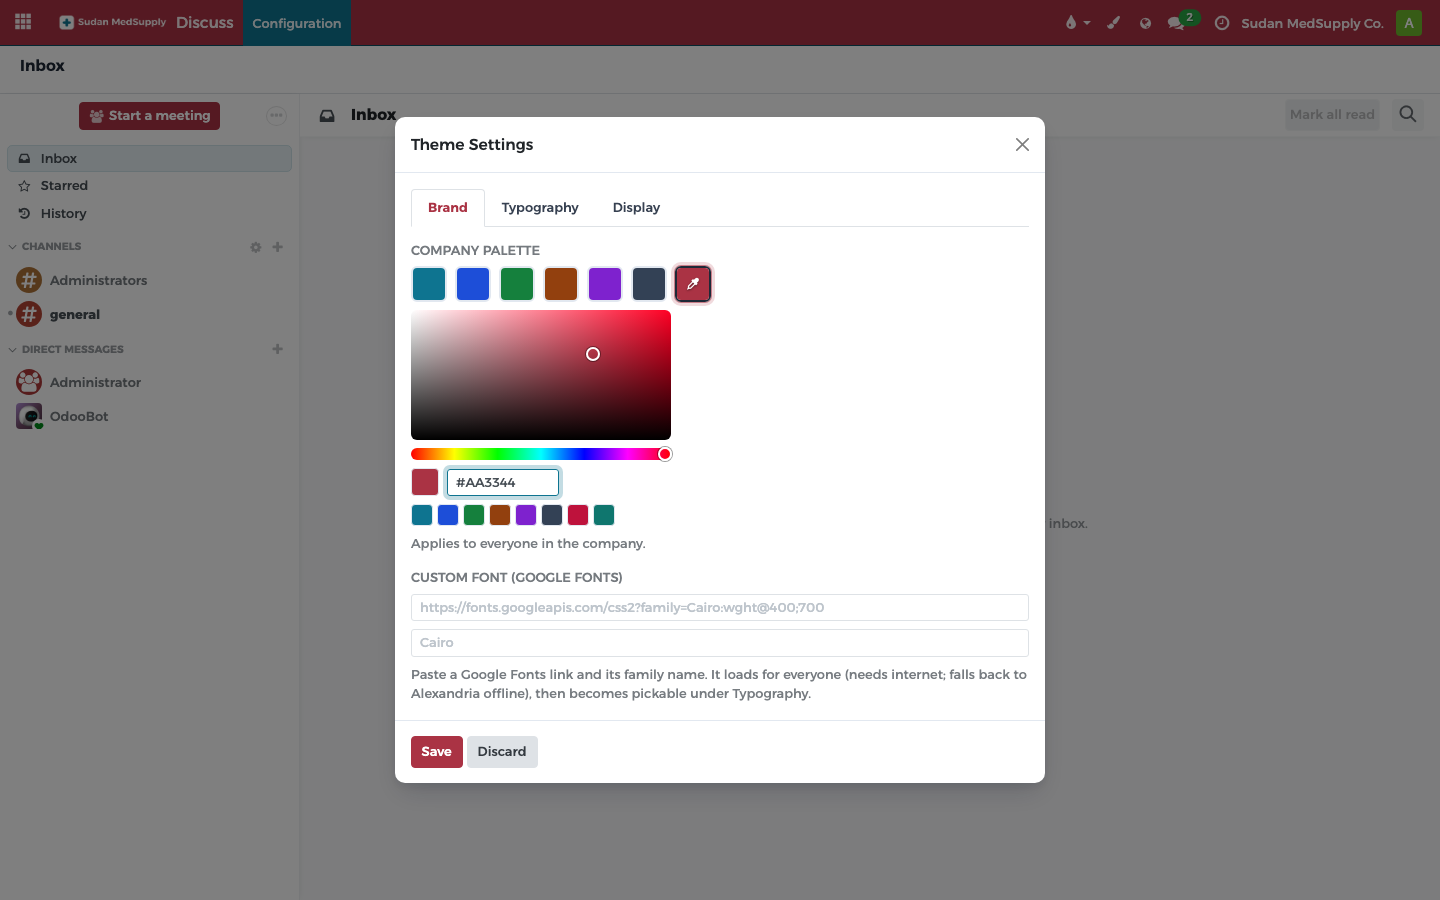
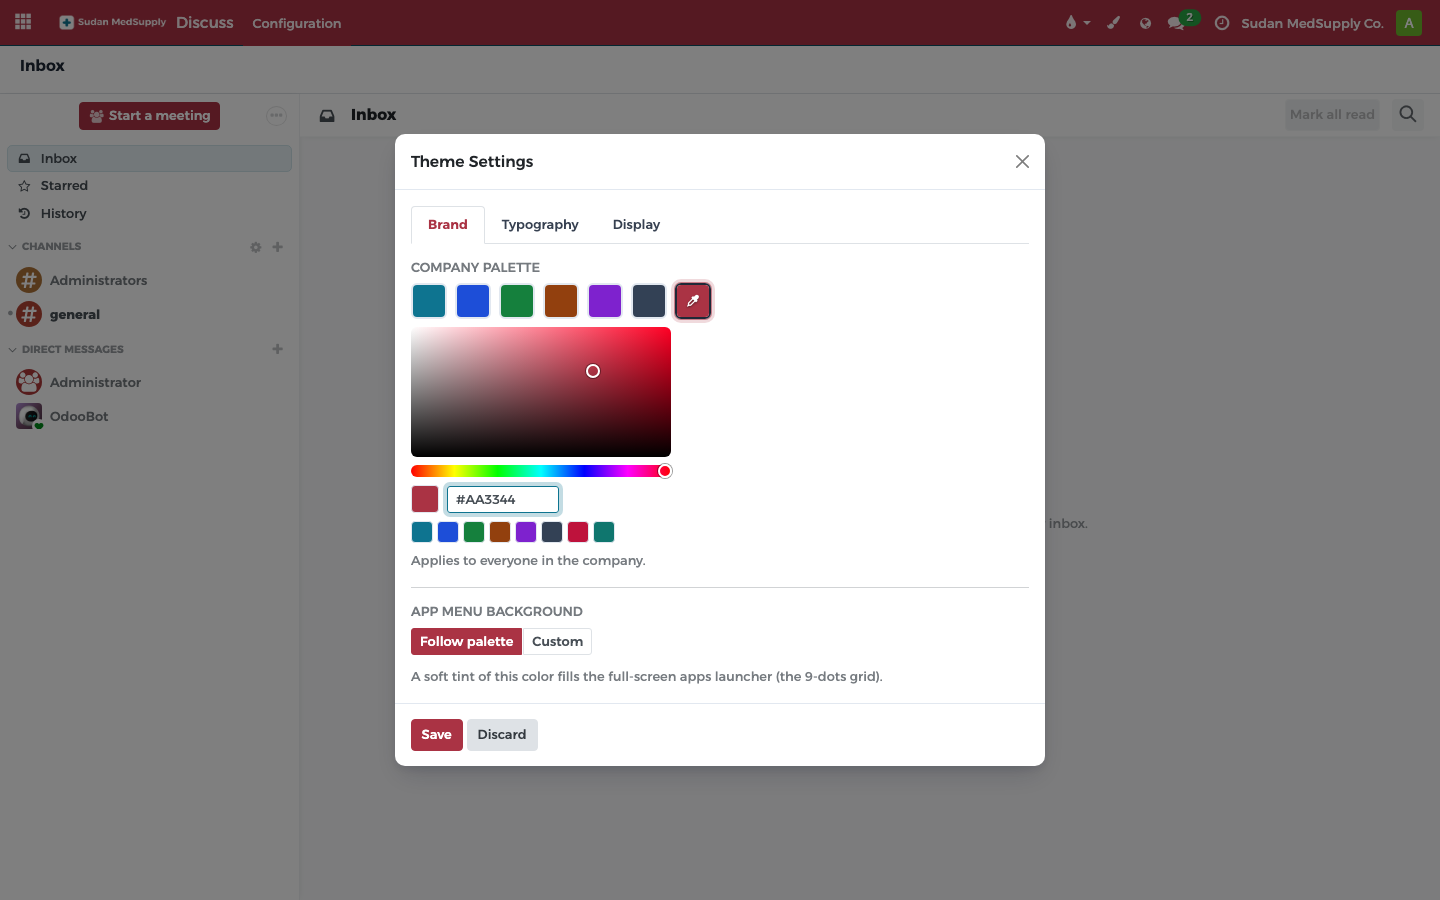
docs+qa(theme): re-pin deploy to v18.0.1.2.0 (app-menu bg feature + AR fix)
odoo-nile-theme bumped to v18.0.1.2.0 (1ccea43): the web_responsive 9-dots
app launcher now follows the Nile palette and is admin-customizable from the
Theme dialog; Arabic Google-Fonts help-text now renders.

- DEPLOY_PINS.md + PRODUCTION_HARDENING_RUNBOOK.md §5: re-pin v18.0.1.1.1 ->
  v18.0.1.2.0 (deploy must run `-u nile_config`, new res.company column — not
  asset-only). New release section in DEPLOY_PINS.
- CUSTOM_THEME_PLAN.md + erp-medsupply-demo SKILL.md: status synced.
- scripts/qa_test_appmenu_bg.py: Playwright verifier (9 checks incl. dark-mode
  regression), non-destructive. Evidence in docs/theme-audit/qa/appmenu/.

Changed region(s): [[0.25, 0.2178, 0.75, 0.8711], [0.25, 0.1244, 0.75, 0.1867], [0.1562, 0.0, 0.25, 0.0622]]

diff --git a/scripts/qa_test_appmenu_bg.py b/scripts/qa_test_appmenu_bg.py
@@ -1,0 +1,235 @@
+# -*- coding: utf-8 -*-
+"""Verify the customizable app-launcher (9-dots) background (nile_config).
+
+Proves:
+  A. The drawer no longer uses web_responsive's hardcoded lavender / SVG overlay.
+  B. With "follow palette" it tracks the company palette (teal vs plum differ).
+  C. A custom color set via the Theme dialog persists and recolors the drawer.
+  D. App labels stay readable (dark text on the light tint).
+  E. The Google-Fonts help text now renders in Arabic (translation fix).
+
+Non-destructive: restores the company's original appmenu bg / palette and the
+admin's language at the end.
+Usage: python3 scripts/qa_test_appmenu_bg.py [db]
+"""
+import os
+import re
+import sys
+import xmlrpc.client
+from playwright.sync_api import sync_playwright
+
+BASE = "http://localhost:8069"
+DB = sys.argv[1] if len(sys.argv) > 1 else "erpmedsupply"
+USER = PWD = "admin"
+ROOT = os.path.dirname(os.path.dirname(os.path.abspath(__file__)))
+OUT = os.path.join(ROOT, "docs", "theme-audit", "qa", "appmenu")
+os.makedirs(OUT, exist_ok=True)
+
+failures = []
+
+
+def check(name, cond, detail=""):
+    print(("  PASS " if cond else "  FAIL ") + name + (f" ({detail})" if detail else ""))
+    if not cond:
+        failures.append(f"{name}: {detail}")
+
+
+# --- xmlrpc handles + original state (restored at the end) -------------------
+common = xmlrpc.client.ServerProxy(f"{BASE}/xmlrpc/2/common")
+uid = common.authenticate(DB, USER, PWD, {})
+models = xmlrpc.client.ServerProxy(f"{BASE}/xmlrpc/2/object")
+
+
+def kw(model, method, *args):
+    return models.execute_kw(DB, uid, PWD, model, method, *args)
+
+
+cid = kw("res.users", "read", [[uid], ["company_id"]])[0]["company_id"][0]
+orig = kw("res.company", "read",
+          [[cid], ["nile_palette_preset", "nile_color_primary", "nile_appmenu_bg"]])[0]
+orig_lang = kw("res.users", "read", [[uid], ["lang"]])[0]["lang"]
+orig_dark = kw("res.users", "read", [[uid], ["nile_dark_mode"]])[0]["nile_dark_mode"]
+kw("res.users", "write", [[uid], {"lang": "en_US"}])
+
+
+def set_company(vals):
+    kw("res.company", "write", [[cid], vals])
+
+
+def login(page, lang_db=DB):
+    page.goto(f"{BASE}/web/login?db={lang_db}", timeout=30000)
+    if page.locator("input[name=login]").count():
+        page.fill("input[name=login]", USER)
+        page.fill("input[name=password]", PWD)
+        page.click("button[type=submit]")
+    page.wait_for_selector(".o_main_navbar", timeout=20000)
+    page.wait_for_timeout(1200)
+
+
+def open_launcher(page):
+    page.locator(".o_grid_apps_menu__button").first.click()
+    page.wait_for_selector(".app-menu-container", timeout=8000)
+    page.wait_for_timeout(500)
+
+
+def drawer_bg(page):
+    """Resolved background-image (the gradient) of the open drawer."""
+    return page.eval_on_selector(
+        ".app-menu-container",
+        "el => getComputedStyle(el).backgroundImage",
+    )
+
+
+def rgbs(s):
+    return re.findall(r"rgba?\(([^)]+)\)", s or "")
+
+
+def parse_color(tok):
+    """rgb(...)/rgba(...) or Chromium's color(srgb r g b) -> [r,g,b] 0-255."""
+    m = re.match(r"rgba?\(([^)]+)\)", tok or "")
+    if m:
+        return [float(x) for x in [p.strip() for p in m.group(1).split(",")][:3]]
+    m = re.match(r"color\(srgb\s+([^)]+)\)", tok or "")
+    if m:
+        return [float(x) * 255 for x in m.group(1).split()[:3]]
+    return None
+
+
+def luminance(rgb):
+    def lin(c):
+        c /= 255
+        return c / 12.92 if c <= 0.03928 else ((c + 0.055) / 1.055) ** 2.4
+    r, g, b = (lin(x) for x in rgb)
+    return 0.2126 * r + 0.7152 * g + 0.0722 * b
+
+
+def first_color(grad):
+    m = re.search(r"(rgba?\([^)]*\)|color\(srgb[^)]*\))", grad or "")
+    return parse_color(m.group(1)) if m else None
+
+
+print(f"\n== app-menu background verification on {DB} ==")
+
+with sync_playwright() as p:
+    browser = p.chromium.launch()
+    page = browser.new_page(viewport={"width": 1440, "height": 900})
+
+    # ---- A + B(1): follow palette = teal (default brand) --------------------
+    set_company({"nile_palette_preset": "teal", "nile_appmenu_bg": False})
+    login(page)
+    open_launcher(page)
+    bg_teal = drawer_bg(page)
+    page.screenshot(path=os.path.join(OUT, "appmenu_follow_teal.png"))
+    check("A: gradient replaces web_responsive default",
+          "gradient" in bg_teal and "233, 230, 249" not in bg_teal
+          and ".svg" not in bg_teal and "home-menu" not in bg_teal,
+          bg_teal[:80])
+
+    # label readability — theme-agnostic: each apps_menu theme keeps its own
+    # label-color contract (milk=dark on a light tint, community=white on a bold
+    # wash), so assert a healthy luminance gap between label and drawer instead
+    # of a fixed color.
+    lbl = page.eval_on_selector(
+        ".o-app-menu-item__name",
+        "el => getComputedStyle(el).color") if page.locator(".o-app-menu-item__name").count() else "none"
+    bg_top = first_color(bg_teal)
+    lab = parse_color(lbl)
+    readable = bool(bg_top) and bool(lab) and abs(luminance(bg_top) - luminance(lab)) > 0.35
+    check("D: app labels readable on the drawer (luminance gap)", readable,
+          f"label={lbl} bg_top={bg_top}")
+
+    # ---- B(2): follow palette = plum → drawer hue must change ---------------
+    set_company({"nile_palette_preset": "plum", "nile_appmenu_bg": False})
+    login(page)
+    open_launcher(page)
+    bg_plum = drawer_bg(page)
+    page.screenshot(path=os.path.join(OUT, "appmenu_follow_plum.png"))
+    check("B: drawer follows the palette (teal != plum)",
+          bg_plum != bg_teal and "gradient" in bg_plum, bg_plum[:80])
+
+    # ---- C: custom color via the Theme dialog (UI + persistence) ------------
+    set_company({"nile_palette_preset": "teal", "nile_appmenu_bg": False})
+    login(page)
+    page.locator(".o_nile_theme_systray").click()
+    page.wait_for_selector(".o_nile_theme_dialog", timeout=8000)
+    page.get_by_role("tab", name="Brand").click()
+    page.wait_for_timeout(300)
+    has_section = page.get_by_text("App Menu Background").count() > 0
+    check("C1: 'App Menu Background' control on Brand tab", has_section)
+    # switch to Custom → the inline HSV picker appears
+    page.get_by_role("button", name="Custom").last.click()
+    page.wait_for_timeout(300)
+    pickers = page.locator(".o_nile_theme_dialog .o_nile_color_picker")
+    check("C2: Custom reveals the color picker", pickers.count() >= 1)
+    # type a vivid crimson into the app-menu picker's hex field, then Save
+    pickers.last.locator(".o_nile_hex_input").fill("#BE123C")
+    pickers.last.locator(".o_nile_hex_input").dispatch_event("input")
+    page.wait_for_timeout(300)
+    page.get_by_role("button", name="Save").click()
+    page.wait_for_selector(".o_main_navbar", timeout=20000)
+    page.wait_for_timeout(1200)
+    persisted = kw("res.company", "read", [[cid], ["nile_appmenu_bg"]])[0]["nile_appmenu_bg"]
+    check("C3: custom color persisted", persisted == "#BE123C", str(persisted))
+    open_launcher(page)
+    bg_custom = drawer_bg(page)
+    page.screenshot(path=os.path.join(OUT, "appmenu_custom_crimson.png"))
+    # crimson tint: the top stop should be red-dominant (r > g and r > b)
+    triples = [t.split(",") for t in rgbs(bg_custom)]
+    red_dom = any(int(t[0]) > int(t[1]) and int(t[0]) > int(t[2]) for t in triples if len(t) >= 3)
+    check("C4: drawer shows the custom crimson tint", red_dom and bg_custom != bg_teal, bg_custom[:80])
+
+    # ---- E: Arabic help text (translation fix) ------------------------------
+    kw("res.users", "write", [[uid], {"lang": "ar_001"}])
+    login(page)
+    page.locator(".o_nile_theme_systray").click()
+    page.wait_for_selector(".o_nile_theme_dialog", timeout=8000)
+    # Typography tab — Arabic label is "الخطوط"
+    page.get_by_role("tab", name="الخطوط").click()
+    page.wait_for_timeout(300)
+    help_txt = page.locator(".o_nile_theme_dialog .form-text").last.inner_text()
+    is_arabic = bool(re.search(r"[-ۿ]", help_txt)) and "Paste a Google" not in help_txt
+    check("E: Google-Fonts help text renders Arabic", is_arabic, help_txt[:60])
+
+    # ---- F: dark mode wins over a custom app-menu color ---------------------
+    # dark.scss sets --app-menu-background DIRECTLY on .app-menu-container; that
+    # direct value must beat our inherited ancestor rule so the drawer stays a
+    # neutral dark surface (NOT the crimson custom color) in dark mode.
+    kw("res.users", "write", [[uid], {"lang": "en_US", "nile_dark_mode": True}])
+    set_company({"nile_appmenu_bg": "#BE123C"})  # vivid custom color still set
+    dark_ctx = browser.new_context(viewport={"width": 1440, "height": 900})
+    dark_ctx.add_cookies([{"name": "color_scheme", "value": "dark", "url": BASE}])
+    dpage = dark_ctx.new_page()
+    login(dpage)
+    open_launcher(dpage)
+    bg_dark = drawer_bg(dpage)
+    # dark.scss uses a SOLID surface color, so it lands in background-color
+    # (background-image is "none") — fall back to it.
+    bg_dark_col = dpage.eval_on_selector(
+        ".app-menu-container", "el => getComputedStyle(el).backgroundColor")
+    dpage.screenshot(path=os.path.join(OUT, "appmenu_dark_neutral.png"))
+    top = first_color(bg_dark) or parse_color(bg_dark_col)
+    red_dom = bool(top) and top[0] > top[1] and top[0] > top[2]
+    is_neutral = bool(top) and luminance(top) < 0.12 and not red_dom
+    check("F: dark mode stays neutral (custom color suppressed)", is_neutral,
+          f"bg_top={top}")
+    dark_ctx.close()
+
+    browser.close()
+
+# --- restore -----------------------------------------------------------------
+set_company({
+    "nile_palette_preset": orig["nile_palette_preset"],
+    "nile_color_primary": orig["nile_color_primary"] or False,
+    "nile_appmenu_bg": orig["nile_appmenu_bg"] or False,
+})
+kw("res.users", "write", [[uid], {"lang": orig_lang, "nile_dark_mode": orig_dark}])
+print(f"\nrestored: palette={orig['nile_palette_preset']} appmenu_bg={orig['nile_appmenu_bg']} "
+      f"lang={orig_lang} dark={orig_dark}")
+
+print(f"\nscreenshots -> {OUT}")
+if failures:
+    print(f"\n{len(failures)} FAILURE(S):")
+    for f in failures:
+        print("  - " + f)
+    sys.exit(1)
+print("\nALL CHECKS PASSED")

diff --git a/docs/CUSTOM_THEME_PLAN.md b/docs/CUSTOM_THEME_PLAN.md
@@ -1,6 +1,6 @@
 # Custom Backend Theme Master Plan — Replacing Spiffy (OPL-1) with an In-House LGPL-3 Theme
 
-**Status:** Phases 0–4 (high-value subset) DONE — `18.0` tagged **`v18.0.1.1.1`** (`ffb4b55`, the 2026-06-14 bug-fix pass: RTL flip / submenu palette-follow / Discuss dark / dark-text+kanban numbers / font-tab move — committed, pushed, deploy re-pinned; prior `v18.0.1.1.0` was the comprehensive theme panel + real dark skin); **Phase-4 "everything" tier DONE 2026-06-14** (EN/AR tour matrix in CI, 19.0-readiness notes, per-addon READMEs); only deferred: Phase-1 doc re-capture | **Date:** 2026-06-11 | **Targets:** Odoo 18.0 Community | **Products:** Sudan Medical-Supply ERP demo (`erpmedsupply`, Arabic-first EN/AR), CMP, ePHEM
+**Status:** Phases 0–4 (high-value subset) DONE — `18.0` tagged **`v18.0.1.2.0`** (`1ccea43`, 2026-06-14 feature: customizable app-launcher (9-dots) background — palette-following + admin override via the Theme dialog — plus the AR Google-Fonts help-text fix; prior `v18.0.1.1.1` `ffb4b55` = bug-fix pass: RTL flip / submenu palette-follow / Discuss dark / dark-text+kanban numbers / font-tab move; `v18.0.1.1.0` = comprehensive theme panel + real dark skin); **Phase-4 "everything" tier DONE 2026-06-14** (EN/AR tour matrix in CI, 19.0-readiness notes, per-addon READMEs); only deferred: Phase-1 doc re-capture | **Date:** 2026-06-11 | **Targets:** Odoo 18.0 Community | **Products:** Sudan Medical-Supply ERP demo (`erpmedsupply`, Arabic-first EN/AR), CMP, ePHEM
 
 > **CURRENT STATE (2026-06-13):** Phases 0–4 (high-value subset) DONE — `phase3-dark-skin` **merged into `18.0`** (`1c69960`) + tagged **`v18.0.1.1.0`**; a 2026-06-13 UI refinement pass (palette-follow to statusbar/settings-rail/view-switcher/notebook, grouped-kanban count-chip fix, elevation/focus polish) + a comprehensive **tabbed Theme Settings panel** (inline HSV picker, company Google-Fonts link, systray globe language switcher) + a Hoot JS test scaffold/CI lane all shipped. Nile is live and Spiffy is retired/deleted everywhere. Three repos:
 > `Wael9912/ephem_deployment_docker` (deploy), `Wael9912/erpmedsupply-addons` (the 14 ERP addons, decoupled
@@ -200,7 +200,7 @@ Two axes, deliberately small:
 | **3 — Dark mode + a11y polish** ✅ DONE 2026-06-13 (branch `phase3-dark-skin`) | Real dark skin (`nile_components/dark.scss` recolours core chrome from `--nile-*` dark tokens — Community ships none; bridges Odoo's un-prefixed BS vars), **neutral-dark navbar**, dark toggle in the Theme dialog + prefs form (`color_scheme` cookie, pre-set in `save()` for a one-hop reload), full compile-time WCAG contrast gate (`contrast.scss` `@error` + `tests/test_contrast.py` CI lane), focus-visible pass (`70_a11y.scss`), reduced-motion (already shipped), compact-density QA | **7 pd** | DONE: dark × RTL × both densities verified via `scripts/qa_dark_sweep.py` (luminance gap-finder, 0 findings) on `erpmedsupply` EN+AR; light theme no-regression; WCAG AA gate green for teal + indigo brands (ePHEM green 5.1:1 computed); install matrix + clean uninstall pass. **Note: Community has NO core dark stylesheets, so this shipped a *real* dark skin, not just a cookie.** |
 | **4 — Hardening & distribution** 🟡 **HIGH-VALUE SUBSET DONE 2026-06-13.** DONE: Hoot JS unit-test scaffold (`nile_config/static/tests/color_picker.test.js` + `web.assets_unit_tests`, 12/12 in the in-browser runner) + CI `js-tests` lane (`.github/scripts/run_hoot.py`); version bump → `18.0.1.1.0`; release tag `v18.0.1.1.0`; tag-based deploy pinning (`erpmedsupply-addons` `v18.0.1.0.0` + `docs/DEPLOY_PINS.md` + runbook §5). **"EVERYTHING" TIER DONE 2026-06-14** (odoo-nile-theme `28c97b2`): EN/AR critical-flow tour matrix per brand in CI (`.github/scripts/run_tours.py` + ci.yml `tours` job, verified live on `erpmedsupply` EN+AR), `UPGRADE_19.md` 19.0-readiness checklist keyed to TOUCHPOINTS, and the last missing per-addon README (`nile_config`). | **6 pd** | DONE: prod clones consume pinned tags; install + contrast CI green; JS + tour CI lanes added (pending first GitHub-Actions run) |
 
-**Total: ~36 person-days.** Phases 0–4 are DONE (`18.0` @ `v18.0.1.1.1` + tour/19.0 docs @ `28c97b2`) — the ONLY remaining plan item is the deferred Phase-1 doc re-capture (manual + both decks), ON HOLD until the user asks.
+**Total: ~36 person-days.** Phases 0–4 are DONE (`18.0` @ `v18.0.1.2.0`) — the ONLY remaining plan item is the deferred Phase-1 doc re-capture (manual + both decks), ON HOLD until the user asks.
 
 ---
 

diff --git a/.claude/skills/erp-medsupply-demo/SKILL.md b/.claude/skills/erp-medsupply-demo/SKILL.md
@@ -258,7 +258,10 @@ in the container (`pdftoppm`) since the host has no poppler/WeasyPrint.
 
 ## UI/theme: Nile is live; Spiffy is retired (current as of 2026-06-13)
 
-**Phases 0–4 ALL DONE; `18.0` tagged `v18.0.1.1.1` (2026-06-14).** It carries: the Phase-3 real
+**Phases 0–4 ALL DONE; `18.0` tagged `v18.0.1.2.0` (2026-06-14).** Latest (`v18.0.1.2.0`): the
+app-launcher (9-dots) background follows the Nile palette and is admin-customizable from the Theme
+dialog (Brand tab → "App Menu Background"); plus the Arabic Google-Fonts help-text now renders. It also
+carries: the Phase-3 real
 dark skin + neutral-dark navbar + dark toggle + WCAG contrast gate + a11y; a **UI refinement pass**
 (palette-follow extended so the company color reaches the statusbar / settings rail / view-switcher /
 notebook; grouped-kanban count-chip corner fix; stronger elevation + focus ring); the
@@ -275,7 +278,7 @@ remaining plan item: the deferred Phase-1 doc re-capture (this section), ON HOLD
 - `Wael9912/erpmedsupply-addons` (`main`) — the **14 ERP addons** (OCA/OdooMates accounting,
   `web_responsive` [with the `env.isSmall` 18.0 patch], `web_chatter_position`, original
   `ui_kanban_first`). Mounted at `/mnt/extra-addons` in prod. Dependency-closure verified.
-- `Wael9912/odoo-nile-theme` (`18.0`, pinned tag **`v18.0.1.1.1`**) — the `nile_*` theme stack
+- `Wael9912/odoo-nile-theme` (`18.0`, pinned tag **`v18.0.1.2.0`**) — the `nile_*` theme stack
   (ship 5 for ERP: `nile_core`, `nile_components`, `nile_shell`, `nile_config`, `nile_brand_medsupply`).
   Mounted at `/mnt/nile-theme`. Prod clones are pinned to tags — see `docs/DEPLOY_PINS.md`.
 - `borse/ePHEM` checkout (`custom-addons/`) — the 121-addon platform monorepo, now **DEV-ONLY**

diff --git a/docs/DEPLOY_PINS.md b/docs/DEPLOY_PINS.md
@@ -9,7 +9,23 @@ every release, then re-tag the repos to match.
 |---|---|---|---|
 | [`Wael9912/ephem_deployment_docker`](https://github.com/Wael9912/ephem_deployment_docker) | `nile-theme` branch | — | deployment (compose, configs, scripts, docs) |
 | [`Wael9912/erpmedsupply-addons`](https://github.com/Wael9912/erpmedsupply-addons) | `v18.0.1.0.0` | `0a5b028` | the 14 ERP addons → `/mnt/extra-addons` |
-| [`Wael9912/odoo-nile-theme`](https://github.com/Wael9912/odoo-nile-theme) | `v18.0.1.1.1` | `ffb4b55` | the `nile_*` theme stack → `/mnt/nile-theme` |
+| [`Wael9912/odoo-nile-theme`](https://github.com/Wael9912/odoo-nile-theme) | `v18.0.1.2.0` | `1ccea43` | the `nile_*` theme stack → `/mnt/nile-theme` |
+
+## odoo-nile-theme `v18.0.1.2.0` (2026-06-14)
+
+Feature release (only `nile_config` changed → only it gets `-u` on deploy; a new
+`res.company` column is added, so the upgrade is **not** asset-only).
+
+- **App-launcher (9-dots) background is now palette-following + customizable.**
+  New `res.company.nile_appmenu_bg` (hex). The drawer was web_responsive's
+  compiled brand (ignoring the runtime palette); it now follows the Nile palette
+  by default and admins can override the base hue from the Theme dialog
+  (Brand tab → "App Menu Background": Follow palette / Custom).
+- Fixed the Google-Fonts help text never rendering in Arabic (inline `<b>`
+  + wording drift made it miss its `.po` msgid).
+- Deploy note: the recreate must run `-u nile_config` (new DB column), not just
+  an asset recompile. Verified live (EN+AR, light+dark) via
+  `scripts/qa_test_appmenu_bg.py` (9/9, incl. dark-mode regression).
 
 ## odoo-nile-theme `v18.0.1.1.1` (2026-06-14)
 

diff --git a/docs/PRODUCTION_HARDENING_RUNBOOK.md b/docs/PRODUCTION_HARDENING_RUNBOOK.md
@@ -301,13 +301,13 @@ moving branch. The current pinned set lives in [`DEPLOY_PINS.md`](DEPLOY_PINS.md
 | Repo | Pinned tag | Mount | Contents |
 |---|---|---|---|
 | [`Wael9912/erpmedsupply-addons`](https://github.com/Wael9912/erpmedsupply-addons) | `v18.0.1.0.0` | `/mnt/extra-addons` | the 14 ERP addons (below) |
-| [`Wael9912/odoo-nile-theme`](https://github.com/Wael9912/odoo-nile-theme) | `v18.0.1.1.1` | `/mnt/nile-theme` | the `nile_*` theme stack |
+| [`Wael9912/odoo-nile-theme`](https://github.com/Wael9912/odoo-nile-theme) | `v18.0.1.2.0` | `/mnt/nile-theme` | the `nile_*` theme stack |
 
 ```bash
 cd /opt/ephem-deploy            # or wherever docker-compose.yml lives
 # Pinned tags (see DEPLOY_PINS.md). Use --branch <tag> for a detached, reproducible checkout.
 git clone -b v18.0.1.0.0 https://github.com/Wael9912/erpmedsupply-addons.git
-git clone -b v18.0.1.1.1 https://github.com/Wael9912/odoo-nile-theme.git
+git clone -b v18.0.1.2.0 https://github.com/Wael9912/odoo-nile-theme.git
 docker compose up -d            # base compose, NO override → ERP-only topology
 ```
 
